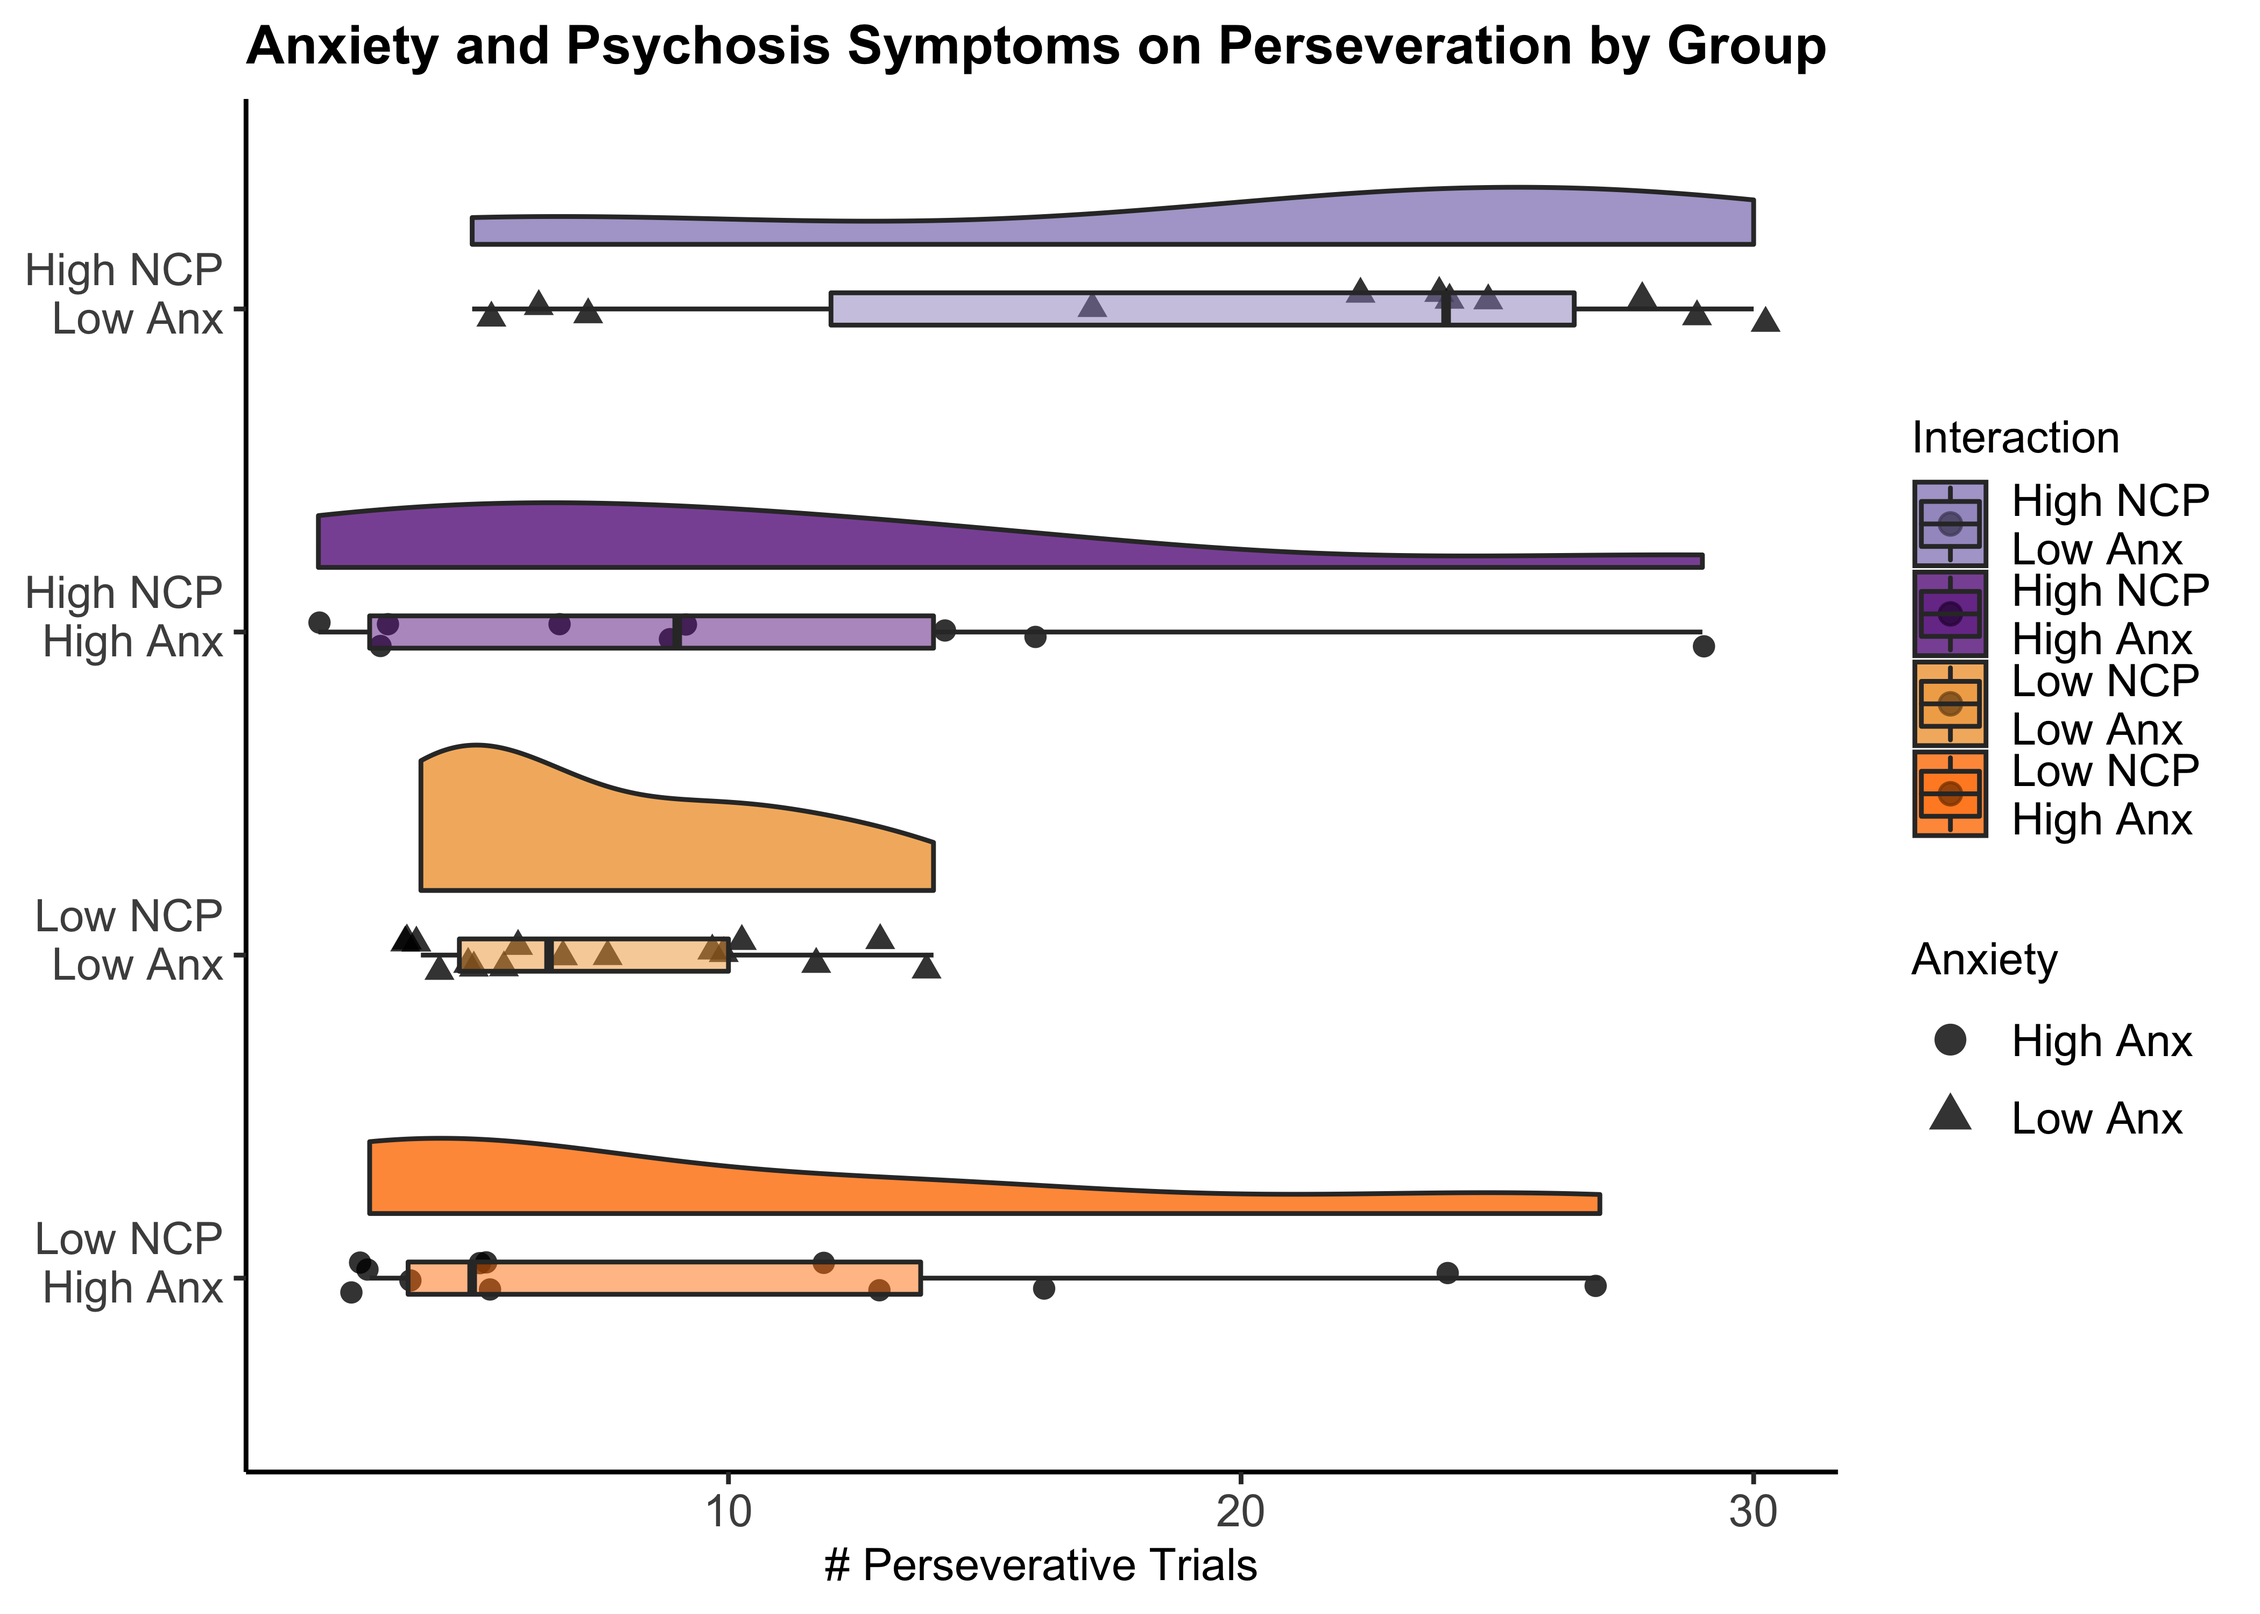
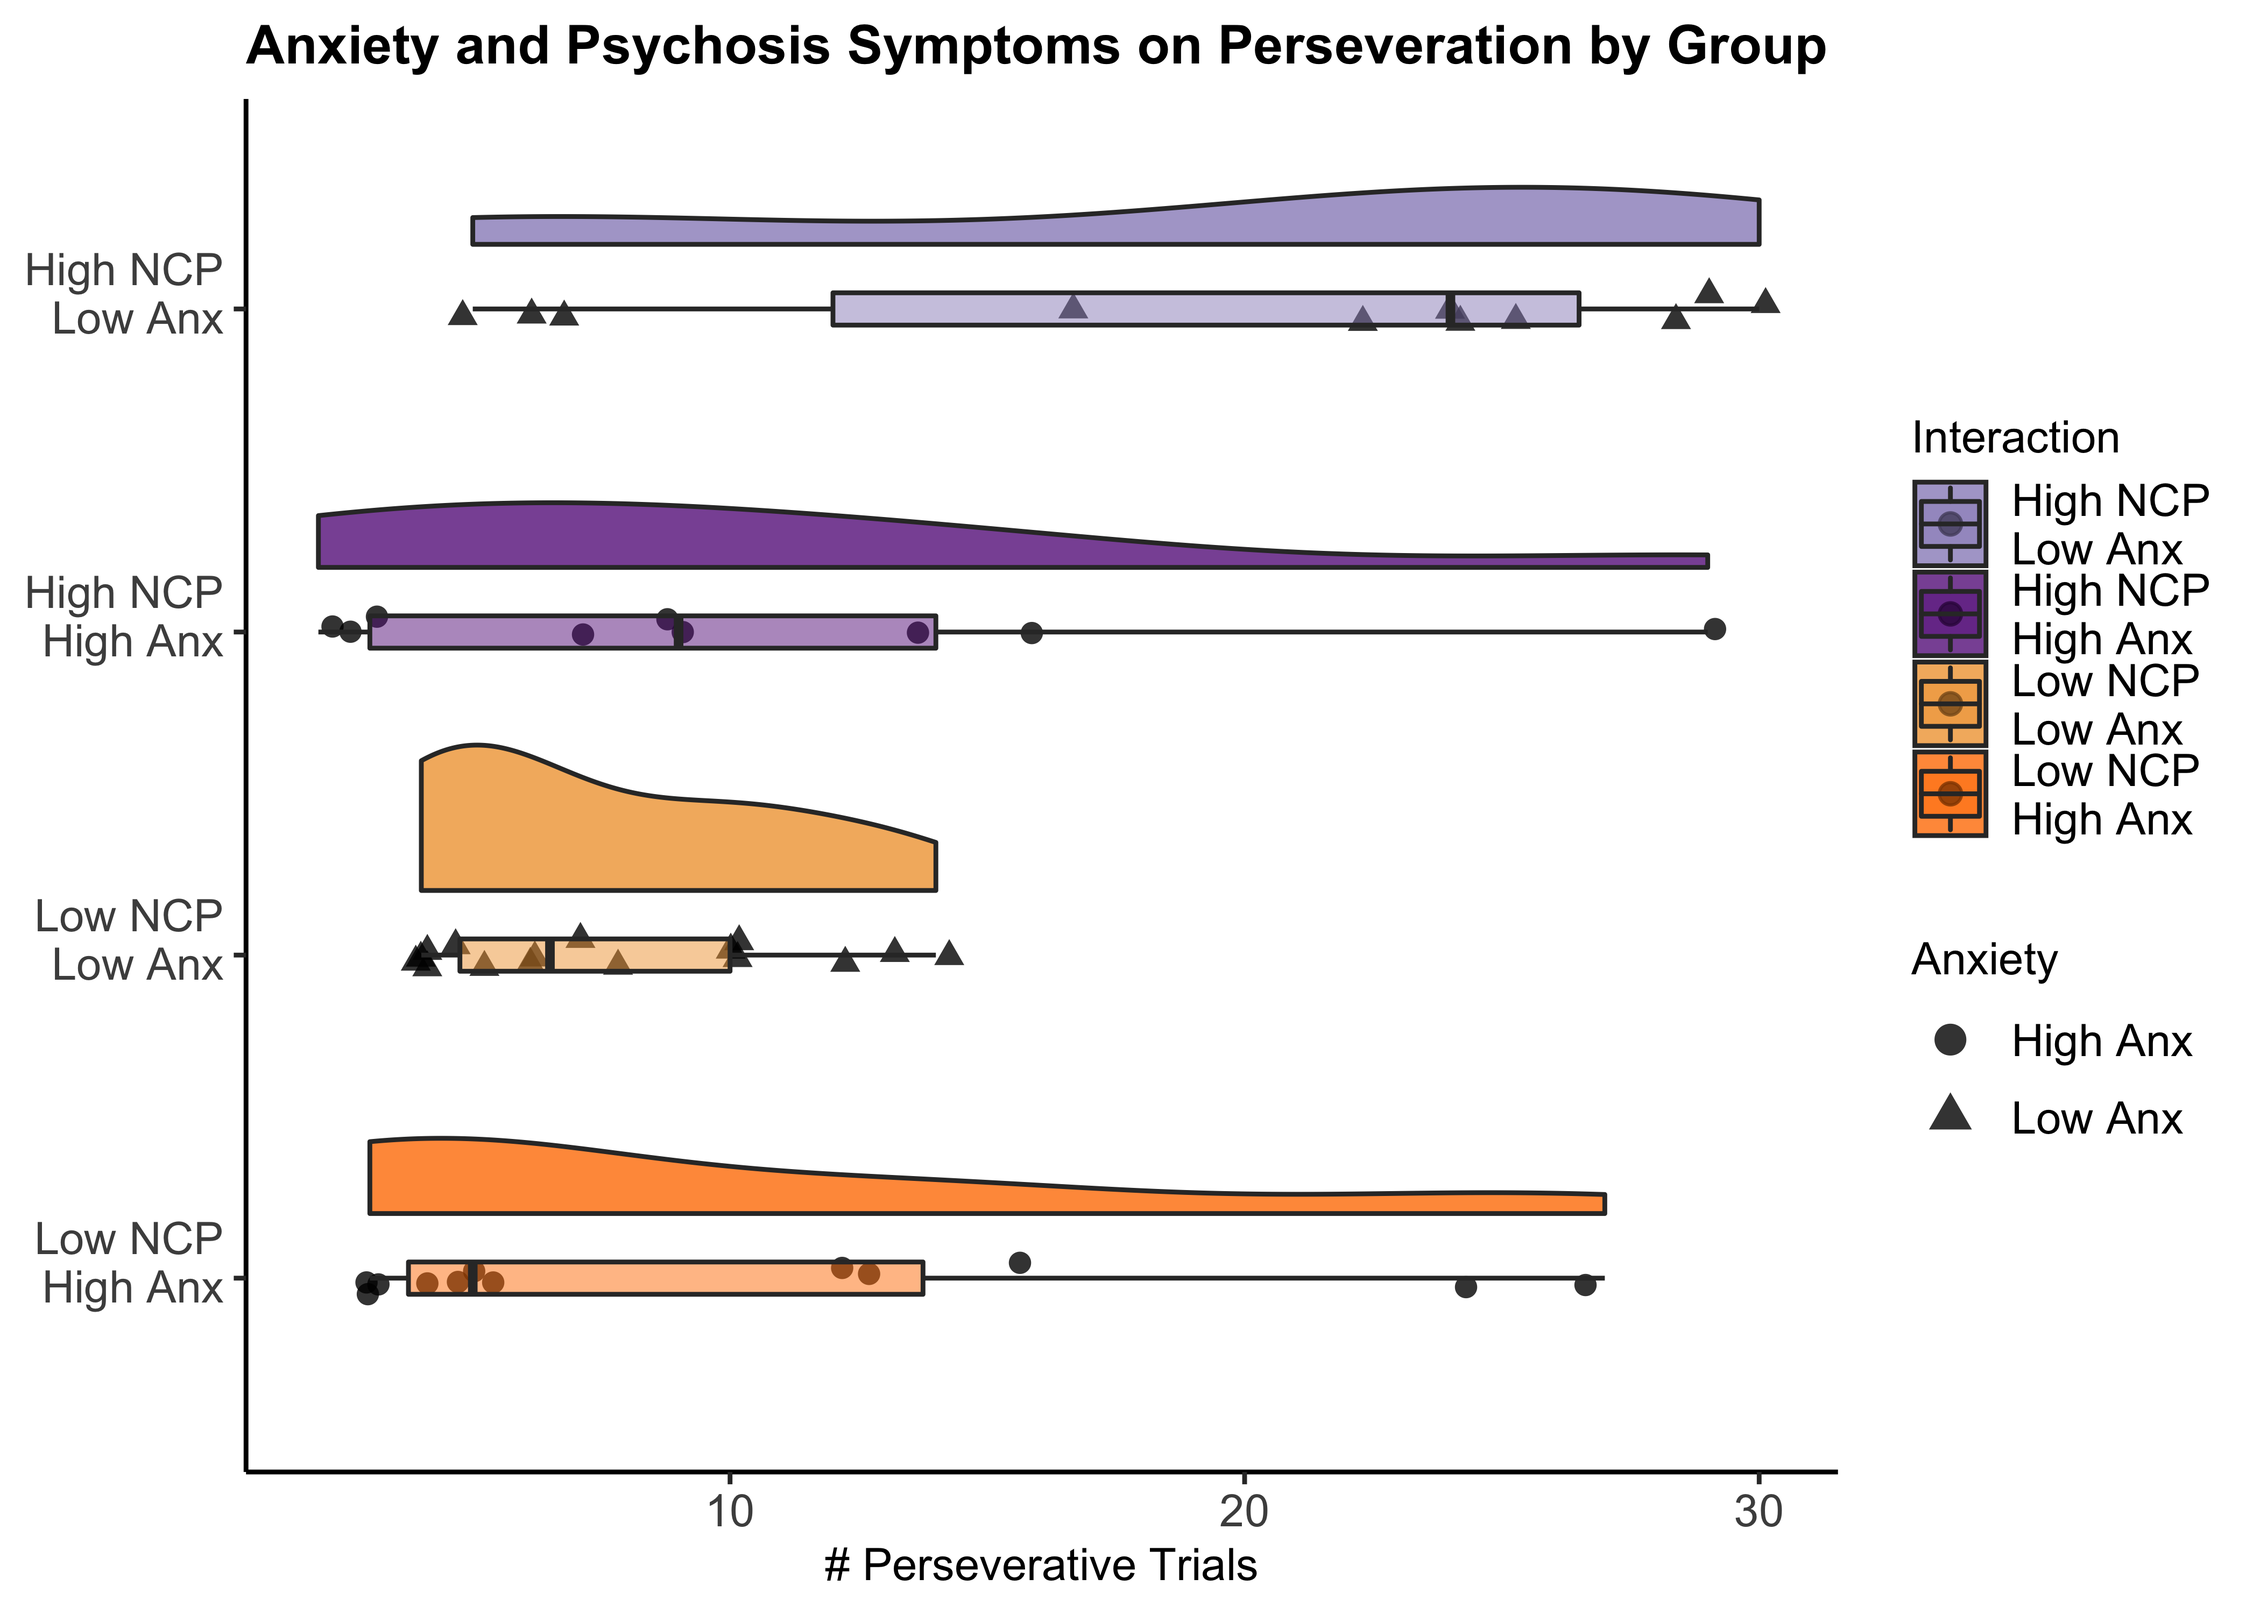
BAI outlier removed

diff --git a/NCP_Analysis_Prelim.md b/NCP_Analysis_Prelim.md
@@ -1221,3 +1221,73 @@ summary(lm(data = interac2, PER_ER ~ BAI.sum*Group))
     ##   (18 observations deleted due to missingness)
     ## Multiple R-squared:  0.3155, Adjusted R-squared:  0.2688 
     ## F-statistic: 6.759 on 3 and 44 DF,  p-value: 0.0007557
+
+### Removing Outlier
+
+![](NCP_Analysis_Prelim_files/figure-gfm/outlier-1.png)<!-- -->![](NCP_Analysis_Prelim_files/figure-gfm/outlier-2.png)<!-- -->![](NCP_Analysis_Prelim_files/figure-gfm/outlier-3.png)<!-- -->![](NCP_Analysis_Prelim_files/figure-gfm/outlier-4.png)<!-- -->![](NCP_Analysis_Prelim_files/figure-gfm/outlier-5.png)<!-- -->![](NCP_Analysis_Prelim_files/figure-gfm/outlier-6.png)<!-- -->
+
+    ## 
+    ## Call:
+    ## lm(formula = PCET_ACC2 ~ BAI.sum * Group, data = interac3)
+    ## 
+    ## Residuals:
+    ##     Min      1Q  Median      3Q     Max 
+    ## -1.7151 -0.6819  0.2017  0.5193  1.4017 
+    ## 
+    ## Coefficients:
+    ##                      Estimate Std. Error t value Pr(>|t|)    
+    ## (Intercept)           1.65265    0.33308   4.962 1.15e-05 ***
+    ## BAI.sum               0.02697    0.01631   1.654  0.10537    
+    ## GroupLow NCP          1.36365    0.41320   3.300  0.00195 ** 
+    ## BAI.sum:GroupLow NCP -0.05168    0.02539  -2.035  0.04801 *  
+    ## ---
+    ## Signif. codes:  0 '***' 0.001 '**' 0.01 '*' 0.05 '.' 0.1 ' ' 1
+    ## 
+    ## Residual standard error: 0.816 on 43 degrees of freedom
+    ##   (7 observations deleted due to missingness)
+    ## Multiple R-squared:  0.2169, Adjusted R-squared:  0.1623 
+    ## F-statistic: 3.971 on 3 and 43 DF,  p-value: 0.01388
+
+    ## 
+    ## Call:
+    ## lm(formula = PCET_EFF ~ BAI.sum * Group, data = interac4)
+    ## 
+    ## Residuals:
+    ##      Min       1Q   Median       3Q      Max 
+    ## -0.18753 -0.06961  0.02867  0.06685  0.15814 
+    ## 
+    ## Coefficients:
+    ##                       Estimate Std. Error t value Pr(>|t|)    
+    ## (Intercept)           0.153325   0.037158   4.126 0.000166 ***
+    ## BAI.sum               0.003034   0.001819   1.668 0.102656    
+    ## GroupLow NCP          0.154894   0.046096   3.360 0.001642 ** 
+    ## BAI.sum:GroupLow NCP -0.005823   0.002833  -2.056 0.045932 *  
+    ## ---
+    ## Signif. codes:  0 '***' 0.001 '**' 0.01 '*' 0.05 '.' 0.1 ' ' 1
+    ## 
+    ## Residual standard error: 0.09103 on 43 degrees of freedom
+    ##   (7 observations deleted due to missingness)
+    ## Multiple R-squared:  0.224,  Adjusted R-squared:  0.1699 
+    ## F-statistic: 4.138 on 3 and 43 DF,  p-value: 0.01157
+
+    ## 
+    ## Call:
+    ## lm(formula = PER_ER ~ BAI.sum * Group, data = interac5)
+    ## 
+    ## Residuals:
+    ##     Min      1Q  Median      3Q     Max 
+    ## -14.689  -4.335  -1.705   4.977  16.266 
+    ## 
+    ## Coefficients:
+    ##                      Estimate Std. Error t value Pr(>|t|)    
+    ## (Intercept)           22.2240     3.0373   7.317 4.49e-09 ***
+    ## BAI.sum               -0.3622     0.1487  -2.436 0.019090 *  
+    ## GroupLow NCP         -15.5702     3.7680  -4.132 0.000163 ***
+    ## BAI.sum:GroupLow NCP   0.5662     0.2316   2.445 0.018653 *  
+    ## ---
+    ## Signif. codes:  0 '***' 0.001 '**' 0.01 '*' 0.05 '.' 0.1 ' ' 1
+    ## 
+    ## Residual standard error: 7.441 on 43 degrees of freedom
+    ##   (7 observations deleted due to missingness)
+    ## Multiple R-squared:  0.3024, Adjusted R-squared:  0.2537 
+    ## F-statistic: 6.213 on 3 and 43 DF,  p-value: 0.001334
